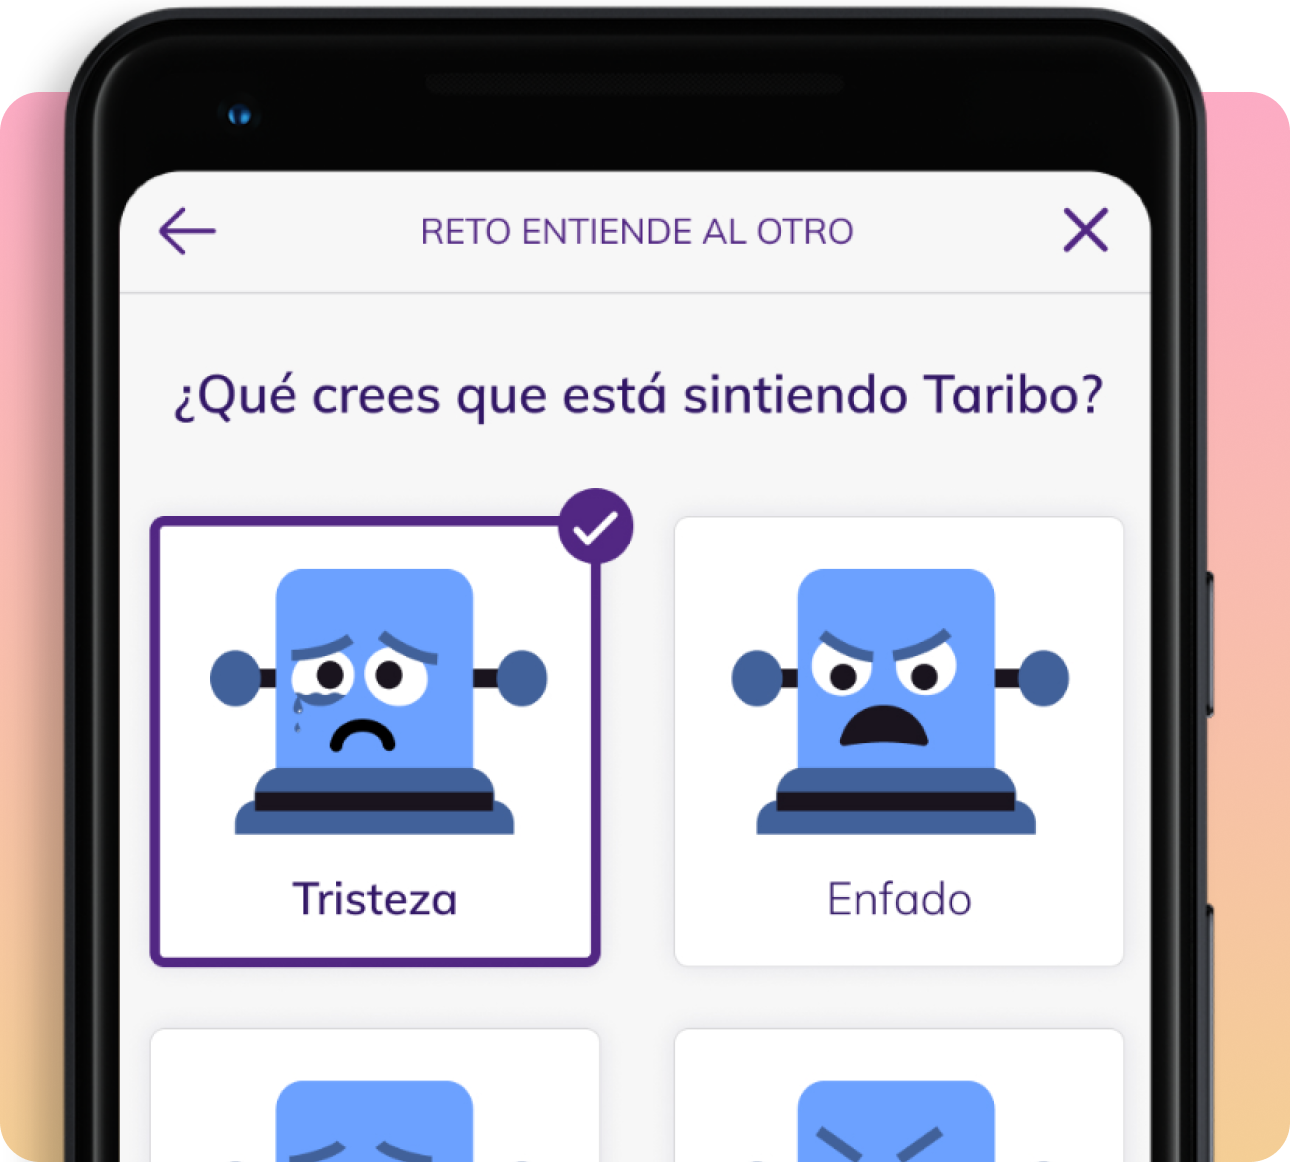
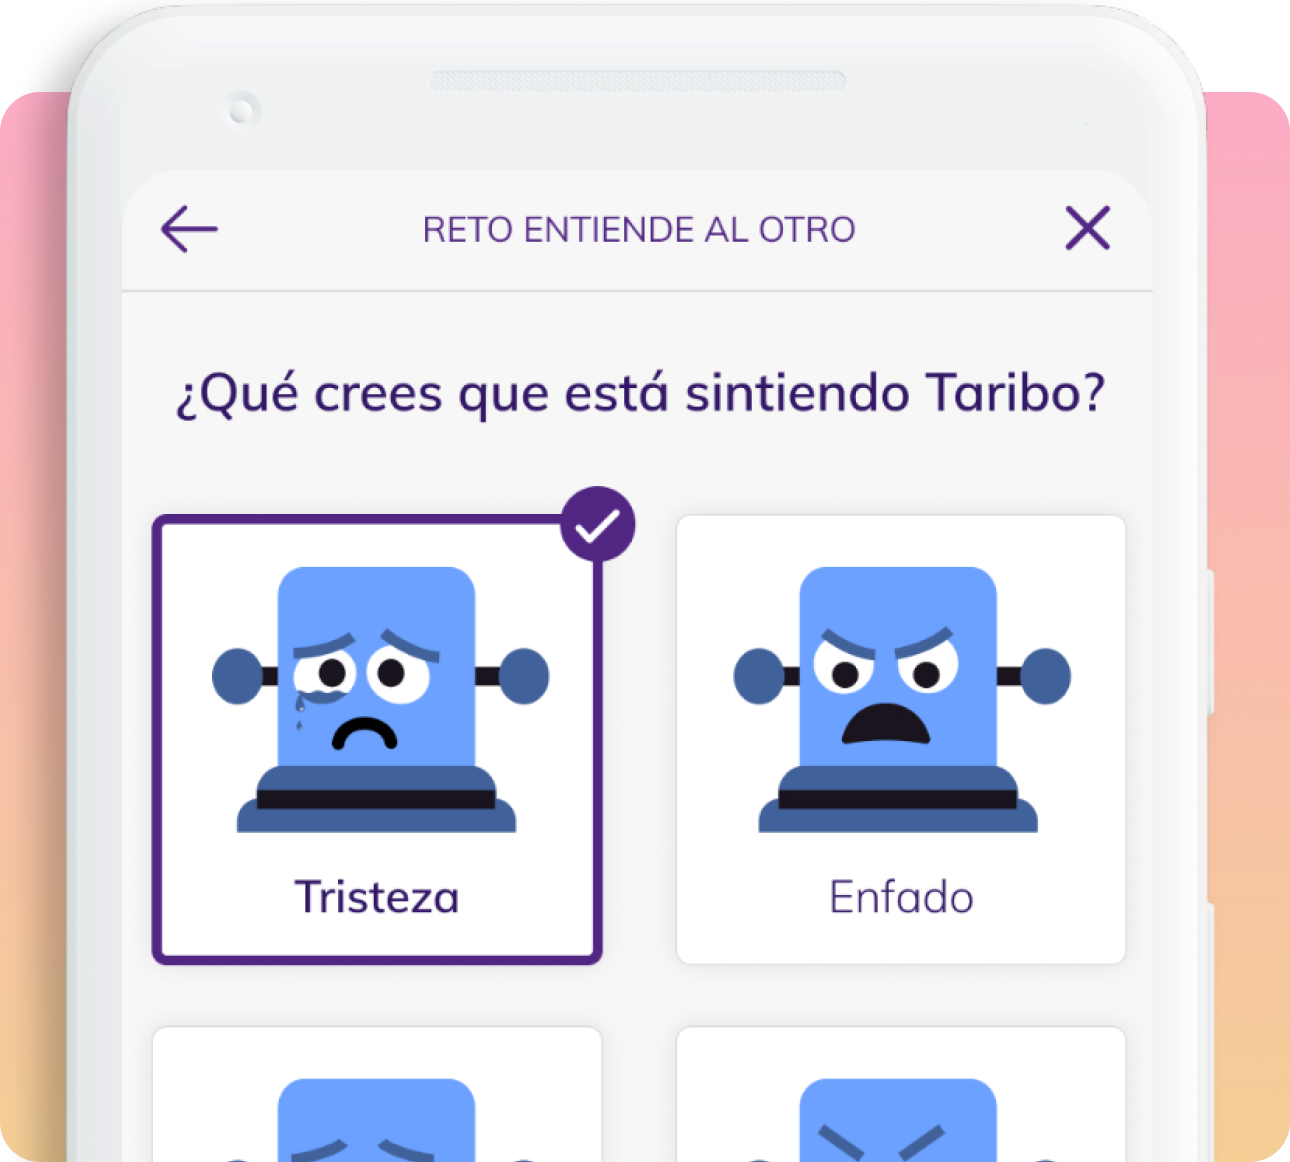
Imagenes a blanco

diff --git a/index.html b/index.html
@@ -79,8 +79,8 @@
                 <p class="description">Los alumnos deberán superar retos personalizados que el educador crea y asigna. De esta manera los alumnos aprenden y crecen junto con su Emochi.</p>
             </div>
             <picture data-aos="fade-right" data-aos-delay="200" data-aos-duration="1500">
-                <source srcset="assets/img/img-2.png" type="image/webp">
-                <img src="assets/img/img-2.png" alt="">
+                <source srcset="assets/img/img-4.png" type="image/webp">
+                <img src="assets/img/img-4.png" alt="">
             </picture>
         </div>
     </section>
